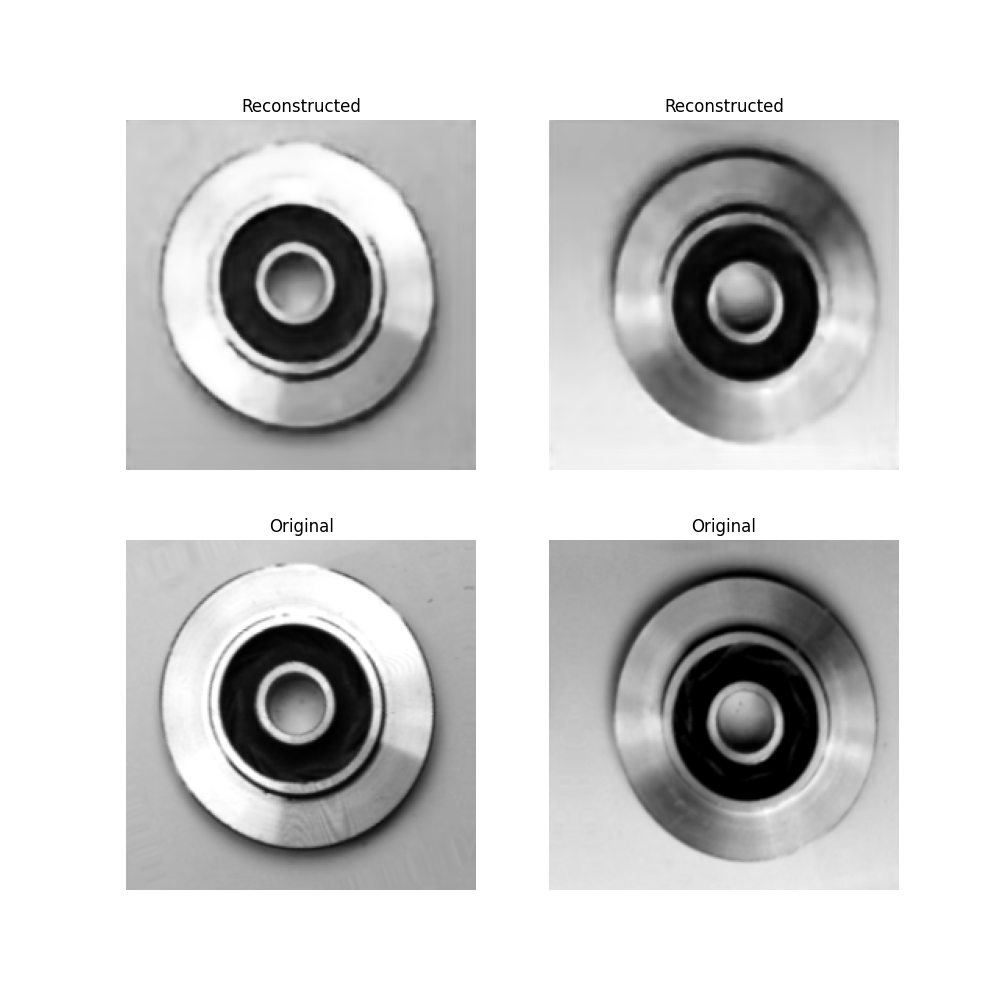
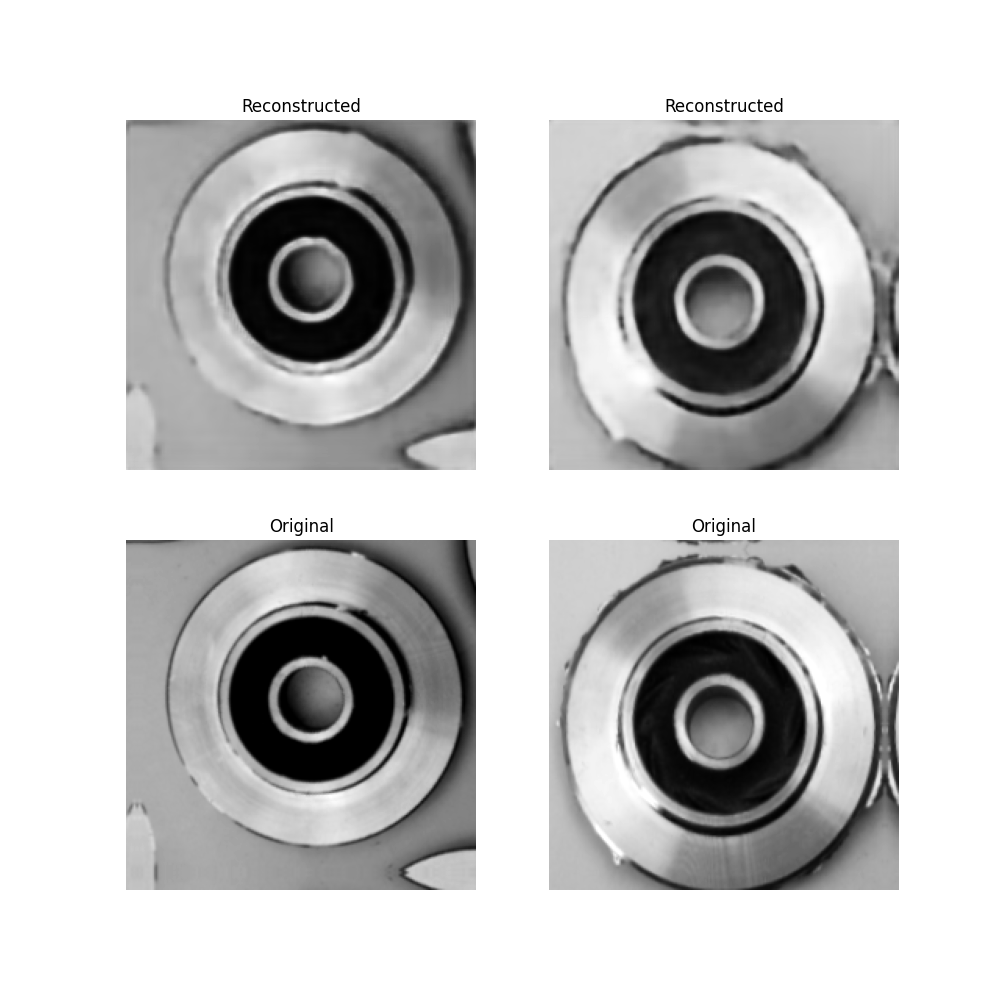
Restricted visualisation to training data

diff --git a/src/visualisation.py b/src/visualisation.py
@@ -35,8 +35,8 @@ augmentation = augmentation_model(
 # * Load dataset
 
 dataset = load_tf_img_dataset(
-    dir='raw',
-    dir_path='data',
+    dir='train',
+    dir_path='data/processed',
     mode='image_only',
     scale=255,
     shuffle=False,

diff --git a/visualisation/dag.md b/visualisation/dag.md
@@ -2,14 +2,18 @@
 flowchart TD
 	node1["cae_hp_tuning"]
 	node2["cae_training"]
-	node3["data/raw/casting_512x512.dvc"]
-	node4["dataset_split"]
-	node5["extract_complexity"]
-	node6["visualisation"]
+	node3["calculate_reconstruction_mse"]
+	node4["data/raw/casting_512x512.dvc"]
+	node5["dataset_split"]
+	node6["extract_complexity"]
+	node7["visualisation"]
 	node1-->node2
-	node3-->node4
-	node4-->node1
-	node4-->node2
+	node2-->node3
+	node2-->node7
 	node4-->node5
-	node4-->node6
+	node5-->node1
+	node5-->node2
+	node5-->node3
+	node5-->node6
+	node5-->node7
 ```
